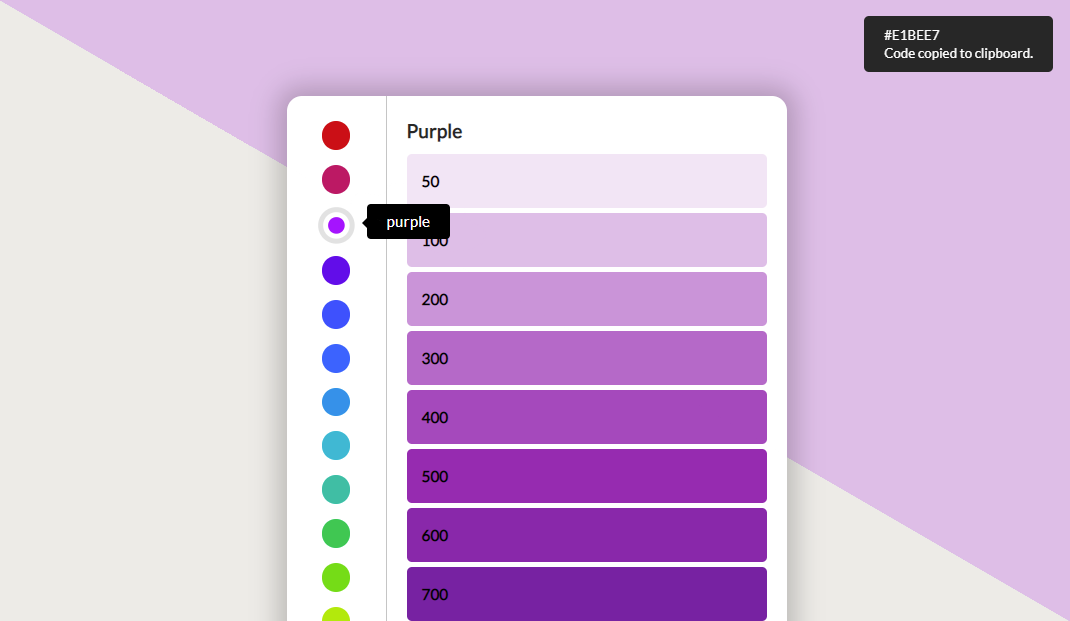
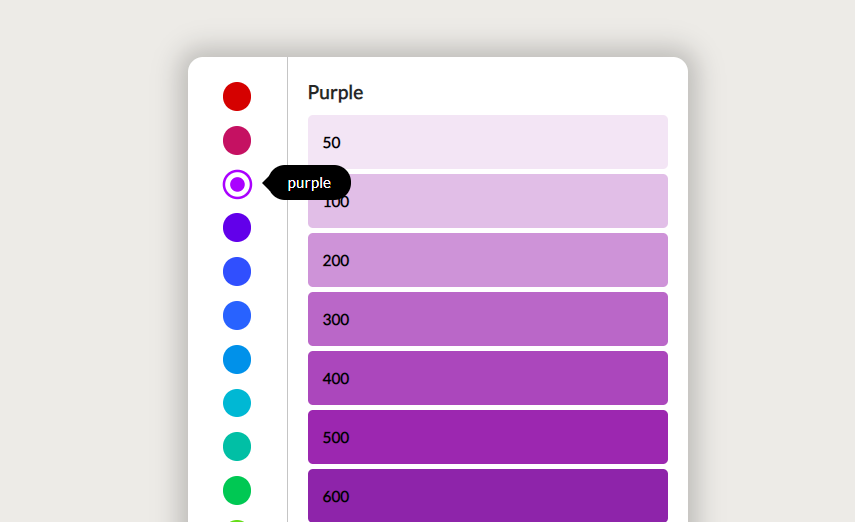
update

diff --git a/colors.js b/colors.js
@@ -74,7 +74,7 @@ function removeStyleFromSpan(event) {
     const colorHex = item.getAttribute('data-hex');
     const colorHexTarget = target.getAttribute('data-hex');
     item.setAttribute('style', `background-color: ${colorHex}`);
-    target.setAttribute('style', `transform: scale(0.5); box-shadow: 0 0 0 10px rgb(255 255 255), 0 0 0 20px ${colorHexTarget}; background-color: ${colorHexTarget}`);
+    target.setAttribute('style', `transform: scale(0.5); box-shadow: 0 0 0 10px rgb(255 255 255), 0 0 0 15px ${colorHexTarget}; background-color: ${colorHexTarget}`);
   });
 }
 
